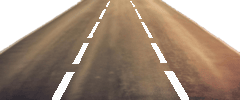
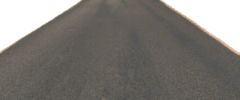
New asphalt texture, better car movement

diff --git a/project/scenes/gameplay/gameplay_scene.h b/project/scenes/gameplay/gameplay_scene.h
@@ -21,7 +21,7 @@
 #include "../../game_components/movement/move_component.h" /// `struct Move_Component`.
 #include "../../graphics/graphics_layer.h"              /// `graphics_layer.renderer`.
 
-#define GAMEPLAY_DATA_LINES 11
+#define GAMEPLAY_DATA_LINES 14
 
 
 /* Struct */
@@ -31,6 +31,7 @@ struct Gameplay_Scene
     SDL_Texture* sky_bg; /// Not a `Texture`, because it's rendered on the whole screen.
     struct Shifting_Texture ground;
     struct Shifting_Texture road;
+    struct Shifting_Texture stripes;
     struct Environment      trees;
 
     struct Car* car_ptr;
@@ -45,7 +46,8 @@ void                  free_gameplay_scene(struct Gameplay_Scene* target);
 struct Gameplay_Scene load_gameplay_scene(const char path[], struct Car* car_ptr, int* exit_code)
 {
     struct Gameplay_Scene result;
-    result.sky_bg = NULL;
+    result.sky_bg  = NULL;
+    result.car_ptr = NULL;
 
     /// Param checking
     if (exit_code == NULL)
@@ -73,6 +75,16 @@ struct Gameplay_Scene load_gameplay_scene(const char path[], struct Car* car_ptr
         *exit_code = EXIT_FAILURE;
         return result;
     }
+    
+    /// Deinit stack
+    struct Deinit_Stack deinit_stack = new_deinit_stack(5, exit_code); /// Not adding the last element (font loading) or those that need their own function treatment.
+    if (*exit_code == EXIT_FAILURE)
+    {
+        print_error("`init()`: couldn't instance a deinitialization stack", NON_SDL_ERROR);
+        free_deinit_stack(&deinit_stack);
+        free_ptr_arr((void**)scene_data, GAMEPLAY_DATA_LINES);
+        return result;
+    }
 
     /// Sky
     result.sky_bg = IMG_LoadTexture(graphics_layer.renderer, scene_data[0]);
@@ -86,19 +98,11 @@ struct Gameplay_Scene load_gameplay_scene(const char path[], struct Car* car_ptr
         else
         {
             print_error("`load_gameplay_scene()`: couldn't load the sky texture, and null texture is empty", IS_SDL_ERROR);
+            free_deinit_stack(&deinit_stack);
             free_ptr_arr((void**)scene_data, GAMEPLAY_DATA_LINES);
             *exit_code = EXIT_FAILURE;
             return result;
         }
-    }
-    /// Deinit stack
-    struct Deinit_Stack deinit_stack = new_deinit_stack(4, exit_code); /// Not adding the last element (font loading) or those that need their own function treatment.
-    if (*exit_code == EXIT_FAILURE)
-    {
-        print_error("`init()`: couldn't instance a deinitialization stack", NON_SDL_ERROR);
-        free_deinit_stack(&deinit_stack);
-        free_ptr_arr((void**)scene_data, GAMEPLAY_DATA_LINES);
-        return result;
     }
     if (result.sky_bg != NULL_TEXTURE)
         add_to_deinit_stack(&deinit_stack, result.sky_bg, (void (*)(void*))SDL_DestroyTexture);
@@ -123,7 +127,7 @@ struct Gameplay_Scene load_gameplay_scene(const char path[], struct Car* car_ptr
     result.road = init_shifting_texture((SDL_FRect){0, RENDER_HEIGHT - 100, 240, 100}, 3, 100, exit_code); /// TEMP: Was 4.
     if (*exit_code == EXIT_FAILURE)
     {
-        print_error("`load_gameplay_scene()`: couldn't load the ground texture", NON_SDL_ERROR);
+        print_error("`load_gameplay_scene()`: couldn't load the road texture", NON_SDL_ERROR);
         flush_deinit_stack(&deinit_stack);
         free_ptr_arr((void**)scene_data, GAMEPLAY_DATA_LINES);
         *exit_code = EXIT_FAILURE;
@@ -133,9 +137,24 @@ struct Gameplay_Scene load_gameplay_scene(const char path[], struct Car* car_ptr
     add_to_shifting_texture(&result.road, scene_data[6], exit_code);
     add_to_shifting_texture(&result.road, scene_data[7], exit_code);
     add_to_deinit_stack(&deinit_stack, &result.road, (void (*)(void*))free_shifting_texture);
+    
+    /// Stripes
+    result.stripes = init_shifting_texture((SDL_FRect){0, RENDER_HEIGHT - 100, 240, 100}, 3, 100, exit_code); /// TEMP: Was 4.
+    if (*exit_code == EXIT_FAILURE)
+    {
+        print_error("`load_gameplay_scene()`: couldn't load the stripes texture", NON_SDL_ERROR);
+        flush_deinit_stack(&deinit_stack);
+        free_ptr_arr((void**)scene_data, GAMEPLAY_DATA_LINES);
+        *exit_code = EXIT_FAILURE;
+        return result;
+    }
+    add_to_shifting_texture(&result.stripes, scene_data[8], exit_code);
+    add_to_shifting_texture(&result.stripes, scene_data[9], exit_code);
+    add_to_shifting_texture(&result.stripes, scene_data[10], exit_code);
+    add_to_deinit_stack(&deinit_stack, &result.stripes, (void (*)(void*))free_shifting_texture);
 
     /// Trees
-    result.trees = new_environment((char*[]){scene_data[8], scene_data[9], scene_data[10]}, 3, 7, exit_code);
+    result.trees = new_environment((char*[]){scene_data[11], scene_data[12], scene_data[13]}, 3, 7, exit_code);
     if (*exit_code == EXIT_FAILURE)
     {
         print_error("`load_gameplay_scene()`: couldn't load the trees", NON_SDL_ERROR);
@@ -156,7 +175,7 @@ struct Gameplay_Scene load_gameplay_scene(const char path[], struct Car* car_ptr
                        8, exit_code /// TODO: exit code check.
     );
     struct Move_Component* tree_move_component = malloc(sizeof(struct Move_Component));
-    *tree_move_component = init_move_component(tree_path, 200, true, exit_code); /// TODO: exit code check.
+    *tree_move_component = init_move_component(tree_path, 150, true, exit_code); /// TODO: exit code check.
     couple_move_component_to_environment(&result.trees, tree_move_component, vec2(10,0), exit_code); /// TODO: exit code check.
     add_to_deinit_stack(&deinit_stack, &result.trees, (void (*)(void*))free_environment); /// Don't delete. More elements will be added later
 
@@ -185,6 +204,7 @@ void gameplay_scene_tick(struct Gameplay_Scene* target, int* exit_code)
     partly_render_environment(&target->trees, 0, 2);
     render_shifting_texture(&target->ground);
     render_shifting_texture(&target->road);
+    render_shifting_texture(&target->stripes);
     partly_render_environment(&target->trees, 3, UINT_MAX);
     SDL_RenderTexture(graphics_layer.renderer, target->car_ptr->textures[target->car_ptr->base_texture], NULL, &target->car_ptr->coords);
     *exit_code = EXIT_SUCCESS;
@@ -199,6 +219,7 @@ void free_gameplay_scene(struct Gameplay_Scene* target)
     
     target->car_ptr->coords.x = center_x(target->car_ptr->coords.w);
     free_environment     (&target->trees);
+    free_shifting_texture(&target->stripes);
     free_shifting_texture(&target->road);
     free_shifting_texture(&target->ground);
     if (target->sky_bg != NULL && target->sky_bg != NULL_TEXTURE)

diff --git a/project/scenes/gameplay/car.h b/project/scenes/gameplay/car.h
@@ -7,10 +7,11 @@
 #include <SDL3_image/SDL_image.h> /// SDL3_image.
 
 /* Helper headers */
-#include "../../debug.h"           /// Error printing.
-#include "../../deinit_stack.h"    /// Deinitialization stack.
-#include "../../resources.h"       /// File reading & null texture.
-#include "../../helpers/helpers.h" /// `free_ptr_arr()`.
+#include "../../debug.h"             /// Error printing.
+#include "../../deinit_stack.h"      /// Deinitialization stack.
+#include "../../resources.h"         /// File reading & null texture.
+#include "../../helpers/helpers.h"   /// `free_ptr_arr()`.
+#include "../../logic/logic_layer.h" /// `time_tick_ms`
 
 #define CAR_DATA_LINES 7
 
@@ -22,12 +23,19 @@
 struct Car
 {
     SDL_Texture* textures[5];
-    size_t base_texture;
-    SDL_FRect coords;
+    size_t       base_texture;
+
     int handling;
     int top_speed;
-    int direction_x;
-    ///unsigned int latest_jump_tick;
+
+    SDL_FRect     coords;
+    int           direction_x;
+    int prev_turn_direction_x; /// Saves the latest non-default `direction_x`. Needed for turn smoothing.
+
+    time_tick_ms latest_turn_start;
+    time_tick_ms latest_turn_end;
+    time_tick_ms turn_smoothing_duration;
+    ///time_tick_ms latest_jump_tick;
 };
 struct Car load_car(const char path[], int* exit_code);
 void       free_car(struct Car* target);
@@ -38,11 +46,16 @@ void       free_car(struct Car* target);
 struct Car load_car(const char path[], int* exit_code)
 {
     struct Car result;
+    result.base_texture = 0;
     result.handling =  0;
     result.top_speed = 0;
-    result.direction_x  = 0;
+    result.direction_x            = 0;
+    result.prev_turn_direction_x  = 0;
     result.base_texture = 2; /// main texture
-    ///result.latest_jump_tick = SDL_GetTicks();
+    result.latest_turn_start = 0; /// Temporary value to be reset with the first turn.
+    result.latest_turn_end   = 0; /// Temporary value to be reset with the first turn.
+    result.turn_smoothing_duration = 100;
+    ///result.latest_jump_tick = 0;
 
     /// Checking params
     if (exit_code == NULL)

diff --git a/project/scenes/gameplay/gameplay_events.h b/project/scenes/gameplay/gameplay_events.h
@@ -65,19 +65,36 @@ void _process_gameplay_car_input(struct Car* car)
         return;
     }
     
-    /* Input reading */
+    /// Input reading
     const bool* key_state = SDL_GetKeyboardState(NULL); /// Unlike the scancodes, this provides no delay - just like handling a car requires.
-    const int prev_car_direction_x = car->direction_x;
     car->direction_x = - key_state[SDL_SCANCODE_LEFT] + key_state[SDL_SCANCODE_RIGHT];
-    
-    /* Boundary processing */
+    /// Boundary processing
+    if (car->direction_x != 0)
+        car->prev_turn_direction_x = car->direction_x;
     if (car->direction_x == -1 && car->coords.x <= 0)
         car->direction_x = 0;
     else if (car->direction_x == 1 && car->coords.x + car->coords.w >= RENDER_WIDTH)
         car->direction_x = 0;
     
-    /* Shifting texture */
-    car->base_texture = 2 + (car->direction_x + prev_car_direction_x);
+    /// Turn smoothing
+    if (car->direction_x != 0 && car->latest_turn_start == 0)
+    {
+        car->latest_turn_start = logic_layer.curr_tick;
+        car->latest_turn_end   = 0;
+    }
+    if (car->direction_x == 0 &car->latest_turn_end == 0)
+    {
+        car->latest_turn_end   = logic_layer.curr_tick;
+        car->latest_turn_start = 0;
+    }
+
+    car->base_texture = 2 + car->direction_x;
+    if      ((car->latest_turn_start != 0) && (logic_layer.curr_tick - car->latest_turn_start >= car->turn_smoothing_duration)) /// Turn recently started.
+        car->base_texture += car->prev_turn_direction_x;
+    else if ((car->latest_turn_end   != 0) && (logic_layer.curr_tick - car->latest_turn_end   <= car->turn_smoothing_duration)) /// Turn recently ended.
+        car->base_texture += car->prev_turn_direction_x;
+    
+    /// Turning the texture
     if (car->coords.x <= 30)
         car->base_texture += 2;
     else if (car->coords.x <= 60)

diff --git a/project/main.c b/project/main.c
@@ -40,8 +40,6 @@ nlohmann/json version: 3.12.0  (last updated 24.12.25)
 
 /* Visual TODOs: */
 /// - photograph traffic cars in Forza;
-/// - photograph asphalt in Forza;
-/// - photograph road railing in Forza;
 /// - find tree sprites;
 /// - moving clouds (+ a clear sky texture then);
 /// - fix Clio Williams half-left texture (exhaust pipe mirrored wrong);
@@ -49,11 +47,11 @@ nlohmann/json version: 3.12.0  (last updated 24.12.25)
 
 /* TODOs: */
 /// - traffic;
+/// - fix EVERYWHERE:
 /// object creation
 /// deinit_stack creation
 ///     deinit_stack failed
 ///     object NOT deleted manually
-/// - fix EVERYWHERE;
 ///
 /// - `Move_Component`: sort out the code mess;
 /// - find the reason of occasional FPS drops;
@@ -61,6 +59,7 @@ nlohmann/json version: 3.12.0  (last updated 24.12.25)
 /// - pushing an array of points/textures into array-like members of `game_components`, instead of individual `add_*()` calls.
 
 /* Structural IDEAs: */
+/// - try making the car larger (60px? 65px?);
 /// ? `null_move_component` and similar things for each `game_components`', for code clarity;
 /// ? `struct Button_Manager`;
 /// ? a system of rendering layers.
